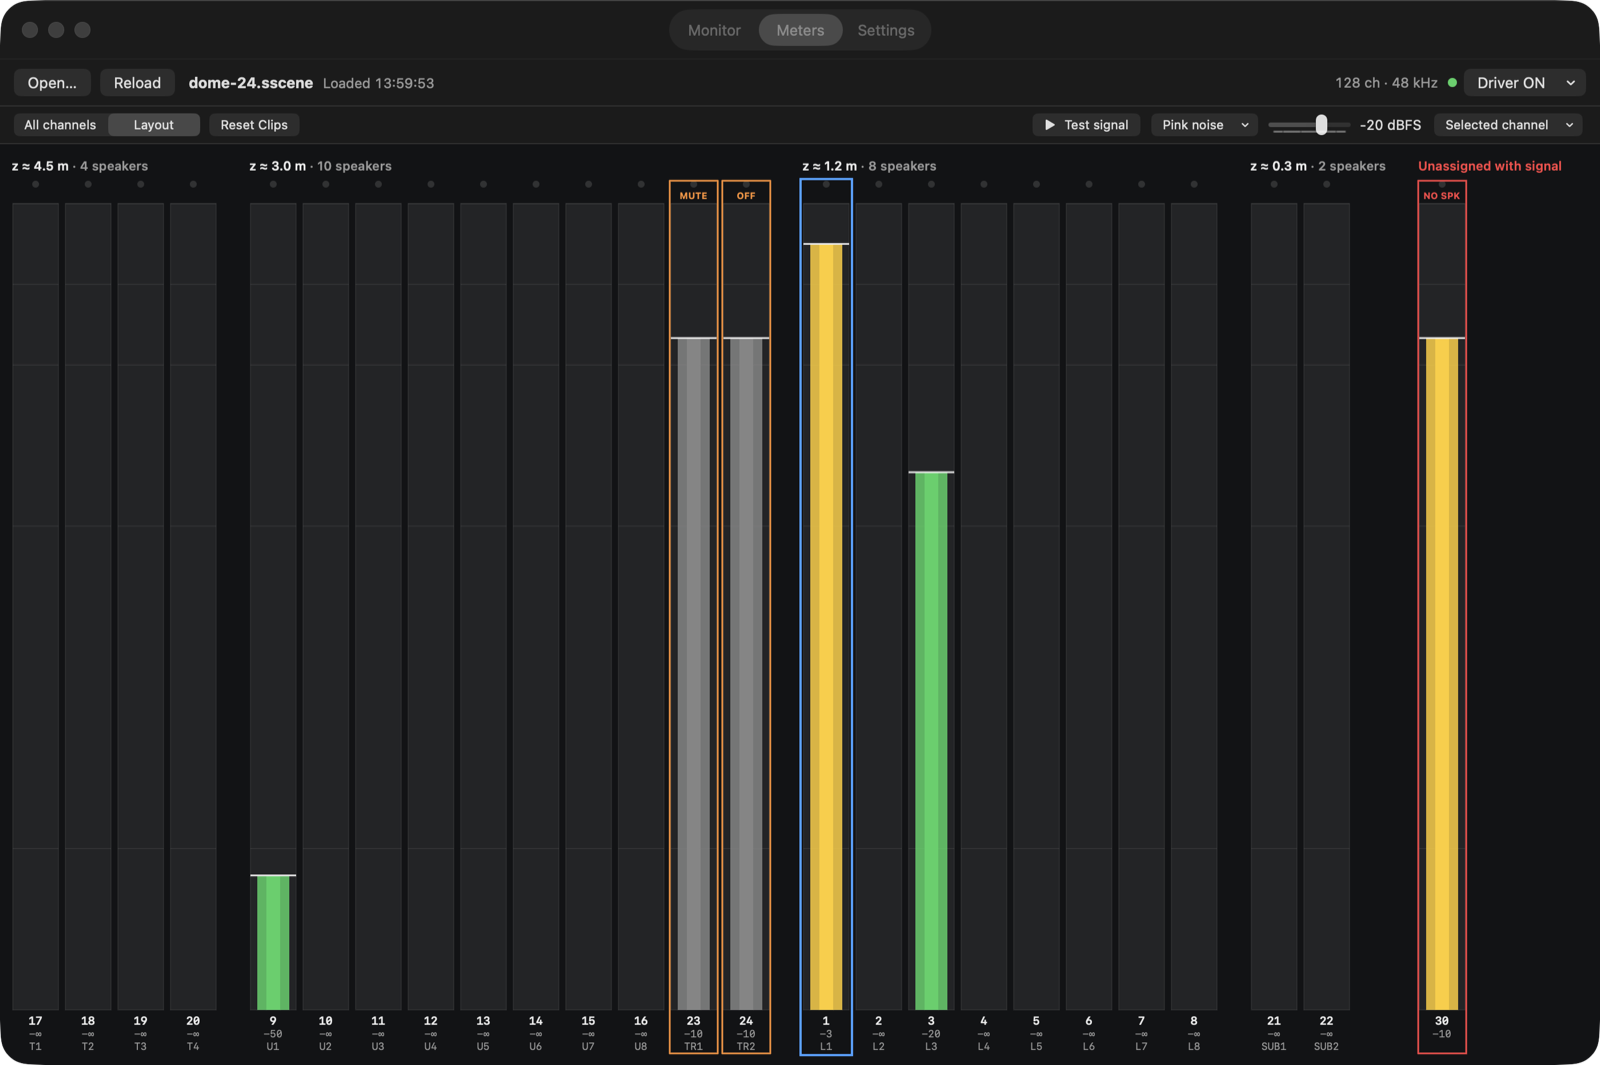
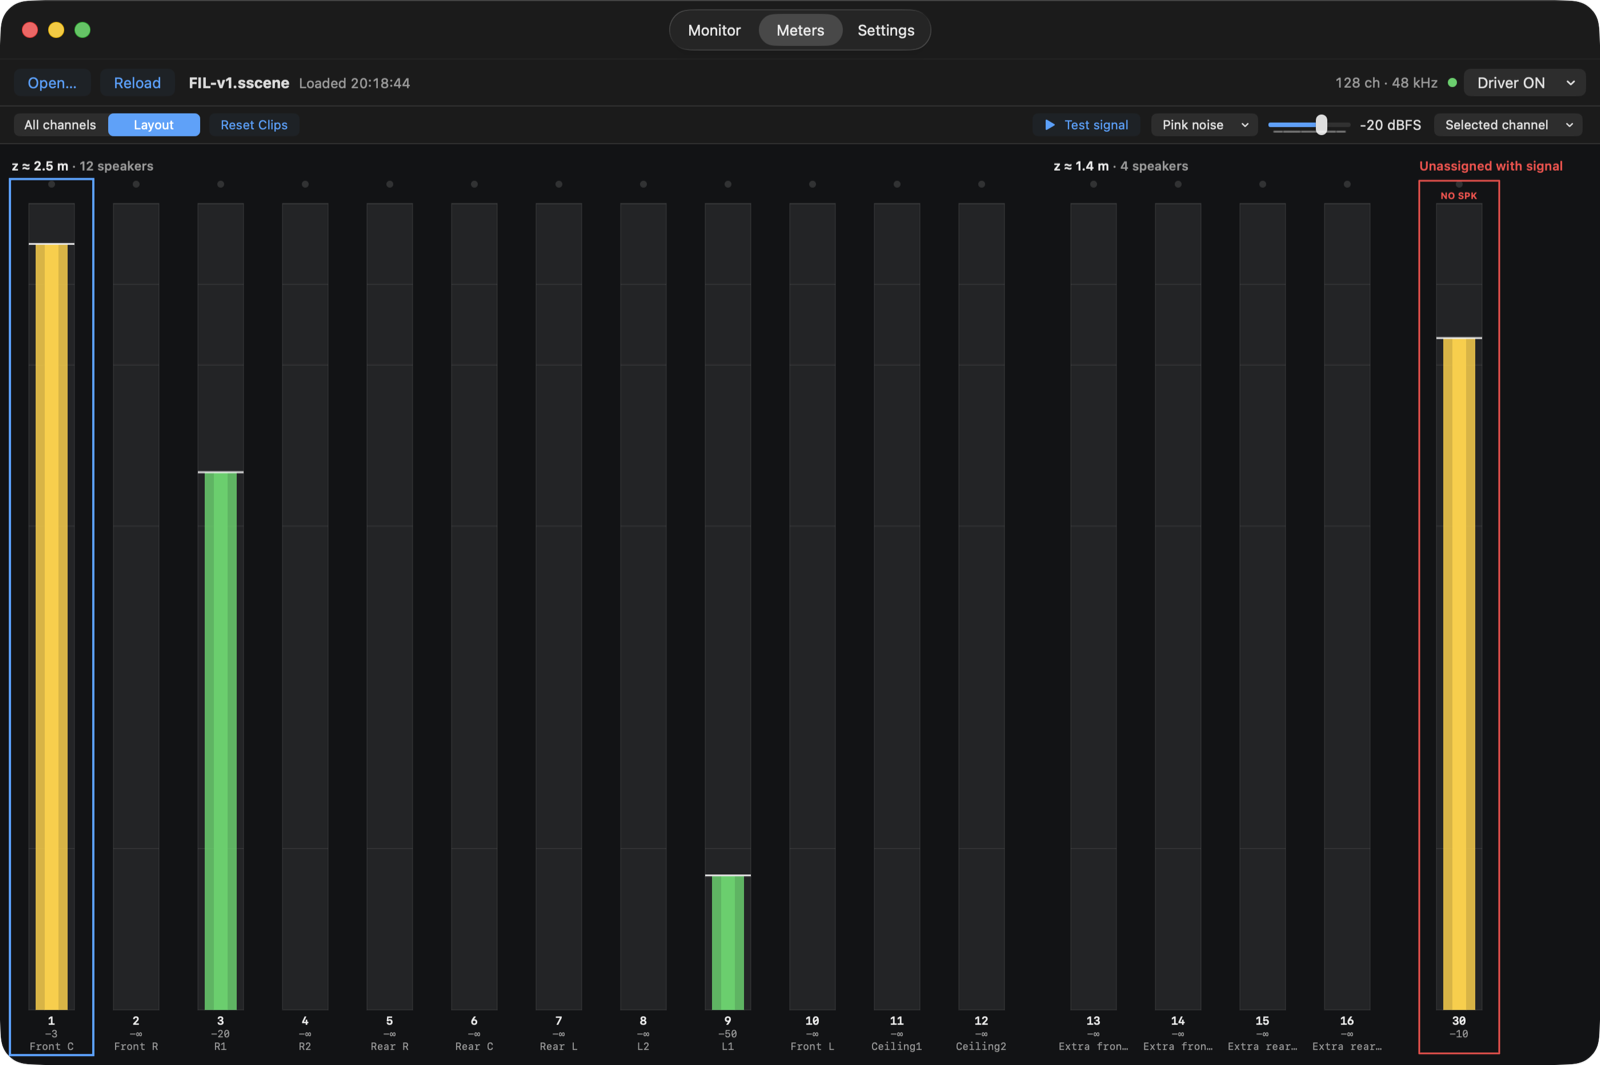
README: screenshots and first sample from Examples/FIL-v1.sscene
The screenshots now show a real room (speakers, moving lights, projector and wall
image) instead of the synthetic dome and venue scenes, and the README points to the
same file first so what you open matches what you saw. The capture recipe was not
written down anywhere and had to be reverse-engineered from the old images, so it
is now in AGENTS.md. The Top view shows overlapping object labels for the light
rows; that is the existing TODO item, now with this scene as its repro.

diff --git a/AI_HANDOFF.md b/AI_HANDOFF.md
@@ -8,7 +8,7 @@
 
 - Overall: `IN_PROGRESS` — v0.2.0 is released and working on the author's machine; the roadmap in `TODO.md` is open.
 - Evidence freshness: `current` as of the capture time (commit `9435351`, tag `v0.2.0`).
-- Safe continuation: `yes` — the checkout is clean and `main` equals `origin/main`. Anything that restarts `coreaudiod` or publishes needs the user's approval (see Safety Boundaries).
+- Safe continuation: `yes` — the checkout is clean; `main` is ahead of `origin/main` by the unpushed FIL-v1 example and screenshot commits (see Change Log). Anything that restarts `coreaudiod` or publishes needs the user's approval (see Safety Boundaries).
 
 ## Read First
 
@@ -38,7 +38,7 @@ Start by checking the real checkout, branch/worktree, and dirty state. Do not as
 
 ## Current State
 
-- `[VERIFIED]` `main` at `9435351`, clean, equal to `origin/main`; tags `v0.1.0`, `v0.2.0` exist locally and on GitHub. The repository is public (MIT).
+- `[VERIFIED]` Release `v0.2.0` = `9435351`; later commits on `main` are docs, the FIL-v1 example and screenshots only, and the last two are not pushed (check `git status -sb`); tags `v0.1.0`, `v0.2.0` exist locally and on GitHub. The repository is public (MIT).
 - `[VERIFIED]` Signal path works end to end on the author's Mac: Ableton Live → driver → shared memory → app. Measured shm update rate ≈ 94/s at 48 kHz / 512 frames (48000 / 512 = 93.75).
 - `[VERIFIED]` The driver runs in coreaudiod's helper process `Core Audio Driver (VirtualAudioInterfaceDriver.driver)`. ON/OFF/Update copies or removes the bundle in `/Library/Audio/Plug-Ins/HAL` and restarts `coreaudiod`; the app compares `VAIDriverSourceHash` (stamped by `HALPlugin/Makefile`) to decide "outdated".
 - `[VERIFIED]` On the author's machine (many third-party audio drivers) `coreaudiod` stayed at ~100% CPU and unresponsive for ~2 min 20 s after the installer restarted it. CoreAudio lookups in the app were moved off the main thread because of this.
@@ -55,7 +55,9 @@ Start by checking the real checkout, branch/worktree, and dirty state. Do not as
 - `[VERIFIED]` Test signal on the live driver: `--test-signal 17 3 sine -20` → ch17 peak 0.1000 (−20.0 dBFS), neighbours 0; three parallel instances on ch1/9/17 at −12 dBFS → 0.2512 each.
 - `[VERIFIED]` App keeps running behind other apps: window hidden for 25 s keeps ~25% CPU (not throttled). `--docshot` captures with its window ordered behind all others (checked with the on-screen window list) and still renders SceneKit.
 - `[VERIFIED]` v0.2.0 pkg: universal app and driver (`lipo -archs` → `x86_64 arm64`), both components non-relocatable, `shasum -a 256 -c` OK; installing over v0.1.0 worked on the author's machine and the driver showed ON/up to date afterwards.
-- `[VERIFIED]` UI is English-only; README screenshots in `docs/images/` were captured from the v0.2.0 build with the driver ON.
+- `[VERIFIED]` UI is English-only; README screenshots in `docs/images/` were captured from the v0.2.0 build (98) with the driver ON, all from `Examples/FIL-v1.sscene` (recipe in `AGENTS.md`). During the capture the frontmost app did not change and the docshot window was last in the on-screen window list.
+- `[VERIFIED]` `Examples/FIL-v1.sscene` (the user's real-room study) loads with 16 speakers, 35 objects and no warnings; covered by `ssdcheck`.
+- `[INFERRED]` The `[SPEAKER]` rows in `Examples/FIL-v1.sscene` are an assumed patch (NYS slot N → channel N+1, extras → 13–16); the source export had none because the physical channel numbering is unconfirmed. Replace them when the user confirms the patch.
 - `[NOT_RUN]` Interactive GUI flows after the last fixes: Driver ON/OFF/Update clicks, test-signal play/step with selection following, auto reload while editing a file in a real editor.
   - Reason: needs a person at the GUI and admin password; required before: the next release.
 - `[NOT_RUN]` macOS 13–15 and real Intel hardware (only the test signal ran under Rosetta).
@@ -66,7 +68,7 @@ Start by checking the real checkout, branch/worktree, and dirty state. Do not as
 
 1. `[IN_PROGRESS]` Roadmap in `TODO.md` — the user has not picked the next item. Candidates the session considered most valuable:
    - Performance: bring CPU well below 10% (publish only changed meter values, skip SwiftUI updates while occluded, lower the 3D update rate when idle) — acceptance: `ps -o %cpu` under 10% with 128 channels playing.
-   - Monitor: avoid overlapping labels for nearby speakers (visible in `dome-24` Top view with Channel + name labels).
+   - Monitor: avoid overlapping labels for nearby speakers and scene objects (visible in the README hero image: the light rows and the room label of `Examples/FIL-v1.sscene`, Top view with Channel + name labels).
    - Device name should follow the configured channel count (currently fixed "Virtual Audio Interface (128ch)").
 2. `[UNKNOWN]` Manual GUI verification of the NOT_RUN flows above — first check: ask the user to run Driver Update, Test signal "Step through SSD speakers" on `Examples/dome-24.sscene`, and edit/save a `.sscene`.
 
@@ -120,3 +122,4 @@ Do not treat the conversation summary as a substitute for this document. Do not 
 | Timestamp | Agent / session label | Change | Evidence |
 | --- | --- | --- | --- |
 | `2026-09-18` | `Claude Code` | initial capture after the v0.2.0 release | `make -C Tools check`, `make -C Tools harness`, `gh release view v0.2.0` |
+| `2026-09-18` | `Claude Code` | added `Examples/FIL-v1.sscene` (assumed speaker patch), README screenshots retaken from it, screenshot recipe in `AGENTS.md`; not pushed | `make -C Tools check` → `ssdcheck OK`; docshot PNGs inspected |

diff --git a/README.ja.md b/README.ja.md
@@ -90,8 +90,12 @@ sudo ./uninstall.sh
    Ableton Live では *設定 → オーディオ → オーディオ出力デバイス* で選び、*出力設定* で使うチャンネルを
    有効にします。
 3. **Open…**(⌘O)で配置ファイルを開くか、`.sscene` をウィンドウにドロップします。
-   まずは [`Examples/dome-24.sscene`](Examples/dome-24.sscene) を試してください。スクリーン、LED ウォール、
-   プロジェクター、カメラを含む例は [`Examples/venue-demo.sscene`](Examples/venue-demo.sscene) です。
+   まずはスクリーンショットと同じ [`Examples/FIL-v1.sscene`](Examples/FIL-v1.sscene) を試してください。
+   実在の部屋の配置で、スピーカー 16 本、ムービングライト、プロジェクターと壁面の投影範囲を含みます
+   (チャンネルの割り当ては仮のものです。ファイル内の注記を参照)。
+   [`Examples/dome-24.sscene`](Examples/dome-24.sscene) はゲイン、ディレイ、ミュートを含む 24 本のドーム、
+   [`Examples/venue-demo.sscene`](Examples/venue-demo.sscene) はスクリーン、LED ウォール、プロジェクター、
+   カメラを含む例です。
 4. 再生すると、**Monitor** タブで信号が来ているスピーカーが光り、**Meters** で全チャンネルが見えます。
    DAW がないときは **Test signal**(2 段目の右)を使えます。
 

diff --git a/README.md b/README.md
@@ -86,8 +86,10 @@ To only unload the driver and keep the app, choose **Turn Driver Off** in the ap
    In Ableton Live: *Settings → Audio → Audio Output Device*, then enable the channels you need in
    *Output Config*.
 3. Open a layout with **Open…** (⌘O) or drop a `.sscene` file on the window.
-   Try [`Examples/dome-24.sscene`](Examples/dome-24.sscene), or
-   [`Examples/venue-demo.sscene`](Examples/venue-demo.sscene) for speakers with a screen, LED walls,
+   Try [`Examples/FIL-v1.sscene`](Examples/FIL-v1.sscene), the scene in the screenshots: a real room with
+   16 speakers, moving lights, a projector and its wall image (its channel patch is an assumption, see the
+   file). [`Examples/dome-24.sscene`](Examples/dome-24.sscene) is a 24-speaker dome with gain, delay and a
+   muted speaker; [`Examples/venue-demo.sscene`](Examples/venue-demo.sscene) adds a screen, LED walls,
    a projector and cameras.
 4. Play. The **Monitor** tab lights up the speakers that receive signal; **Meters** shows every channel.
    No DAW at hand? Start the **Test signal** (second row, right).

diff --git a/TODO.md b/TODO.md
@@ -9,7 +9,8 @@ Planned work, roughly in priority order within each section. Contributions welco
 - [x] App icon (`packaging/icon/make_icon.swift`) and the standard About panel
 - [ ] Meters: selectable layout (grid / horizontal strip), channels-per-row zoom, dB scale labels, value readout on hover
 - [x] Meters: group channels by SSD speaker layer (Layout mode: height groups, Unassigned with signal)
-- [ ] Monitor: avoid overlapping labels for nearby speakers, add a color/level legend
+- [ ] Monitor: avoid overlapping labels for nearby speakers and scene objects (the light rows and the room
+      label in `Examples/FIL-v1.sscene`, Top view with Channel + name labels), add a color/level legend
 - [x] Monitor: visualize Gain and Delay (Gain drives the level display; both in the Channel + name labels and the speaker table)
 - [ ] Monitor: draw speaker aim once SSD defines a speaker forward axis
 - [ ] Routing panel: sortable columns, search, copy warnings to clipboard

diff --git a/AGENTS.md b/AGENTS.md
@@ -16,6 +16,10 @@ swift build --package-path VisualizerApp
 Headless app modes (no window in front): `VisualizerApp --status`, `--docshot <dir> [scene.sscene] [--appearance light|dark] [--size WxH]`,
 `--test-signal <channel> <seconds> [pink|sine] [dBFS]`. Look at docshot PNGs before claiming a UI change works.
 
+README screenshots (`docs/images/`): run the bundled app (a bare `swift build` binary shows "Version ? (?)") with
+`--docshot <dir> "$PWD/Examples/FIL-v1.sscene" --appearance dark --size 1400x848`, then `sips --resampleWidth 1600`.
+`monitor-top`, `monitor-perspective` and `settings` keep their names; `meters.png` is the `meters-layout` shot.
+
 If the x86_64 Swift build fails with "not registered", delete `VisualizerApp/.build/x86_64-apple-macosx` (build_app.sh retries once).
 
 ## Invariants
